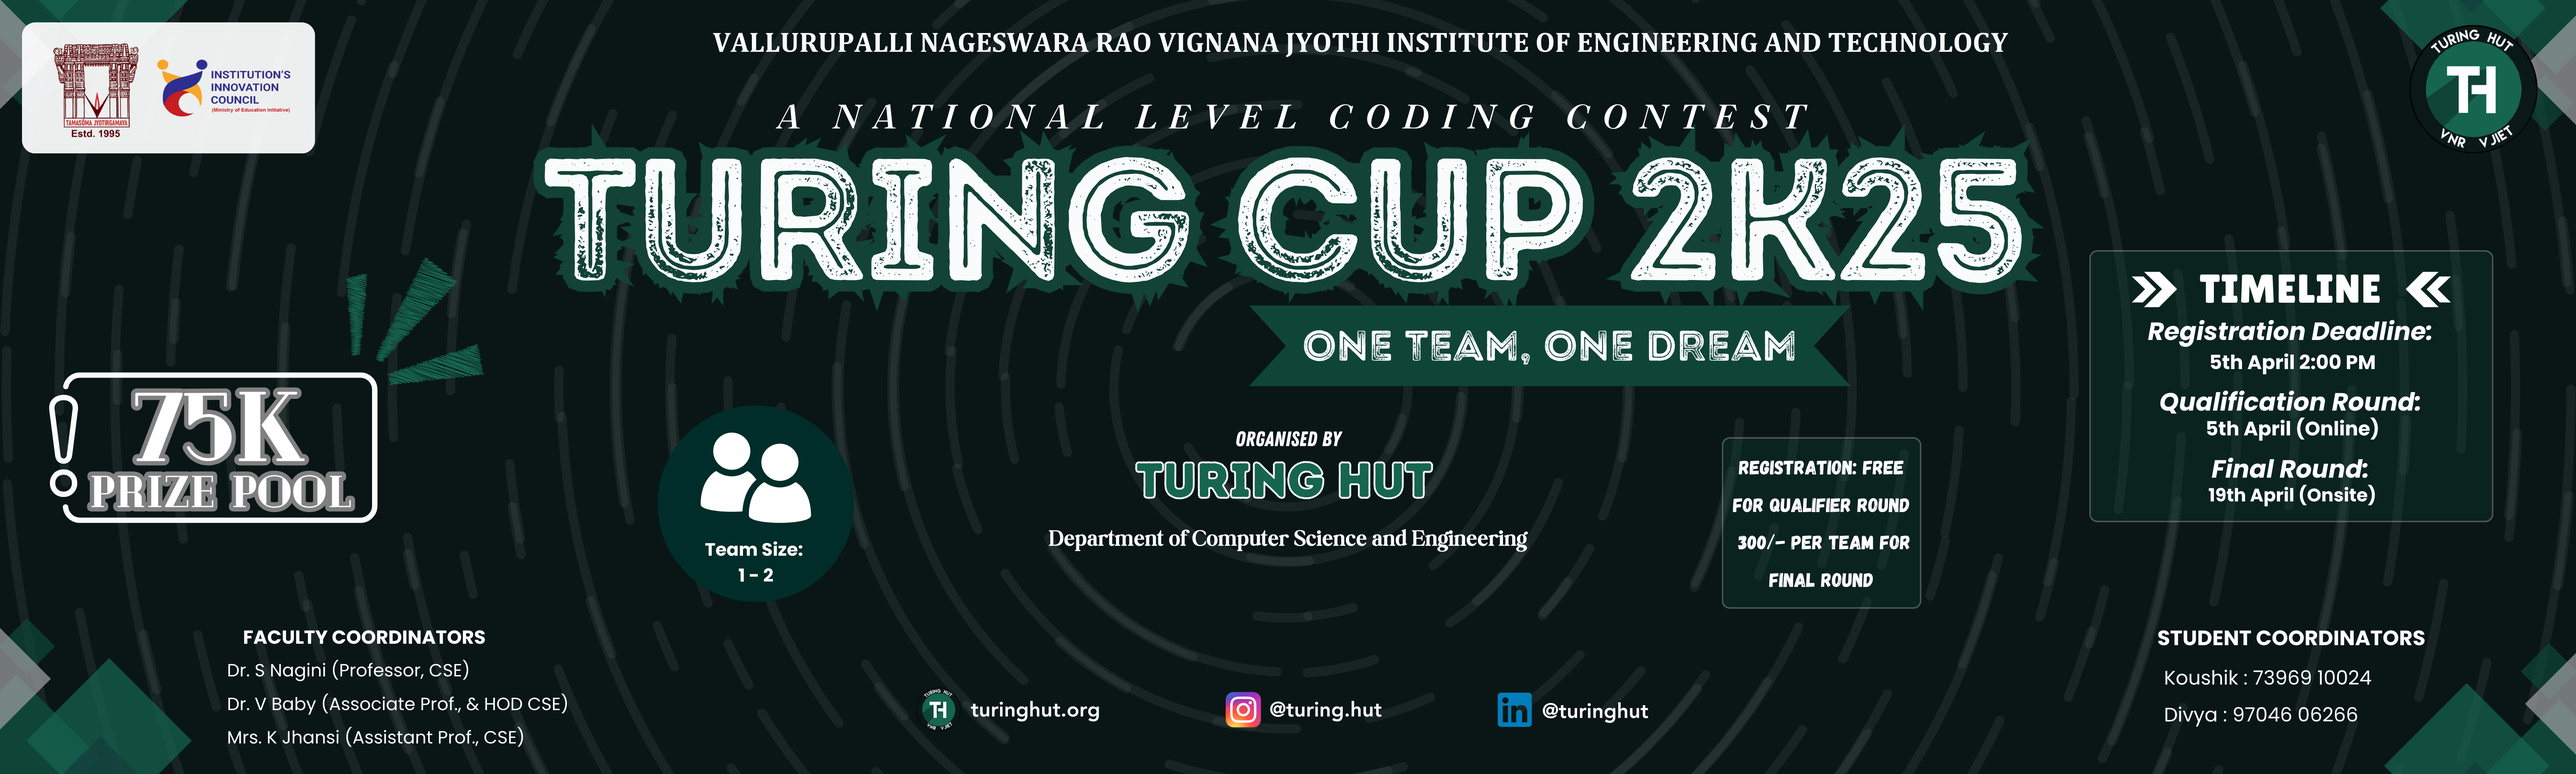
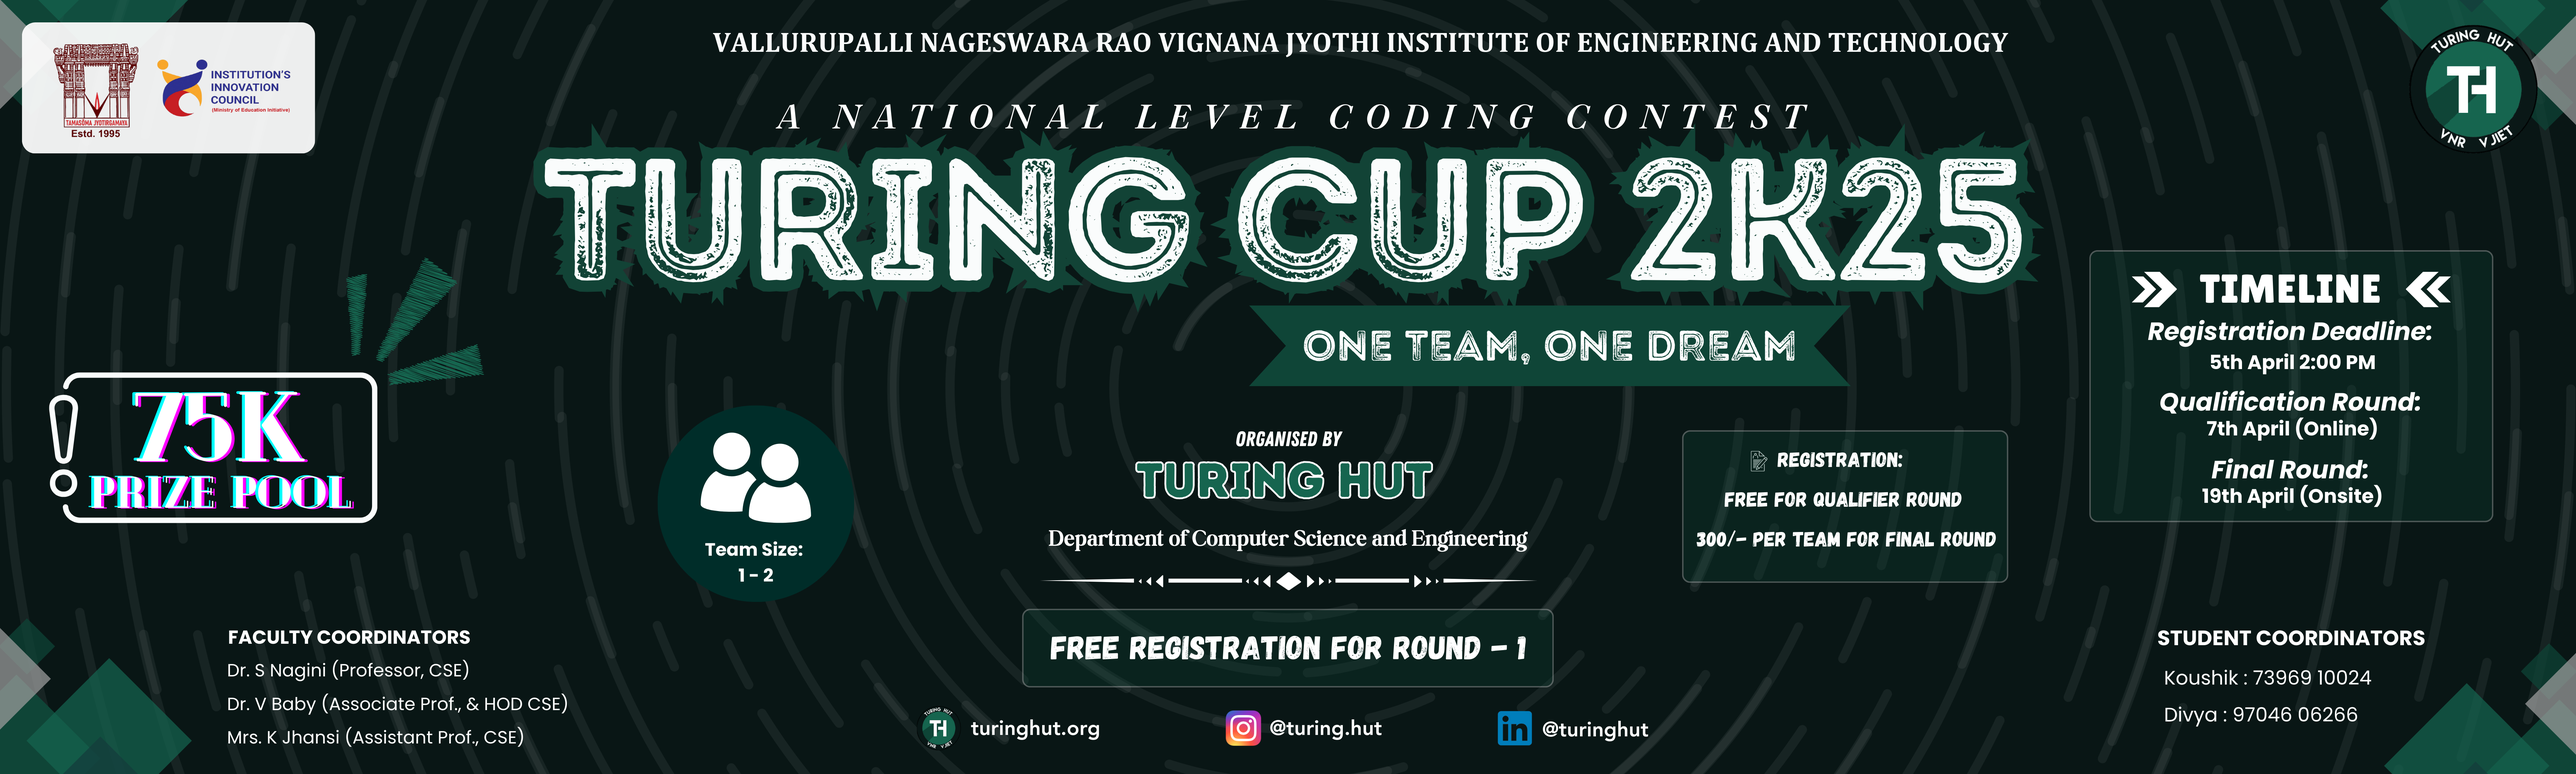
docs: dates changed

diff --git a/src/components/EventsTable.js b/src/components/EventsTable.js
@@ -221,8 +221,13 @@ export default function EventsPage() {
                       align="right"
                       sx={{
                         color: event.status.includes("Past")
-                          ? red[500]
-                          : green[600]
+                        ? red[500]
+                        : event.status.includes("Upcoming")
+                          ? 
+                          green[500]
+                          :
+                          "#1a8cff",
+                          fontWeight:500
                       }}
                     >
                       {event.status}
@@ -329,8 +334,10 @@ export default function EventsPage() {
                                 backgroundColor: event.status.includes("Past")
                                   ? red[500]
                                   : event.status.includes("Upcoming")
-                                    ? "#16654F"
-                                    : green[500]
+                                    ? 
+                                    green[500]
+                                    :
+                                    "#1a8cff"
                               }}
                             />
                             <Chip

diff --git a/src/components/TuringCup/Timelinee.js b/src/components/TuringCup/Timelinee.js
@@ -56,7 +56,7 @@ function Timelinee() {
             in any branch <br />
             Team size : 1-2 <br />
             Registration fee: FREE for Round-1 ; Rs 300/- per team for Round-2
-            (Lunch and goodies will be provided).
+            (Lunch and goodies will be provided)
             <br />
             Registration for online round will close on 5th April 2:00 PM <br />
           </h4>
@@ -70,7 +70,7 @@ function Timelinee() {
           }}
           contentArrowStyle={{ borderRight: "7px solid  #F2AA4CFF" }}
           iconStyle={{ background: "#F2AA4CFF", color: "#101820FF" }}
-          date="05-04-2025"
+          date="07-04-2025"
           dateClassName={"timeline"}
           icon={<LooksTwoOutlinedIcon />}
         >
@@ -83,8 +83,8 @@ function Timelinee() {
           >
             The qualifier round for the Turing Cup 2K25 coding contest. <br />
             <br />
-            Date : 05/04/2025 - Saturday <br />
-            Time : 07:00 PM - 09:00 PM (IST)
+            Date : 07/04/2025 - Monday <br />
+            Time : 08:00 PM - 10:00 PM (IST)
             <br />
             Platform : Hackerrank <br />
             Mode : Online <br />

diff --git a/src/components/NewslettersTable.js b/src/components/NewslettersTable.js
@@ -96,16 +96,16 @@ export default function NewslettersTable() {
   }
 
   return (
-    <Box sx={{ my: 4 }}>
+    <Box sx={{ m: 4 }}>
       <Box
-        display={{ sm: "flex" }}
+        display="flex"
+        justifyContent="space-between"
+        alignItems="center"
         sx={{ pb: 2 }}
-        justifyContent={"space-between"}
       >
         <Typography
           variant="h6"
           color="primary"
-          align="center"
           sx={{ fontWeight: "bold", fontSize: "1.7rem" }}
         >
           Directory of Newsletters

diff --git a/src/components/TuringCup/Timers.js b/src/components/TuringCup/Timers.js
@@ -33,7 +33,7 @@ function Timers() {
   let interval = useRef();
 
   const startTimer = () => {
-    const countdownDate = new Date("April 5, 2025 19:00:00").getTime();
+    const countdownDate = new Date("April 7, 2025 20:00:00").getTime();
 
     interval = setInterval(() => {
       const now = new Date().getTime();

diff --git a/src/assets/events/TuringCup-2025.md b/src/assets/events/TuringCup-2025.md
@@ -1,7 +1,7 @@
 ---
 title: Turing Cup 2K25
-date: 2025-04-05
-time: 07:00 PM to 09:00 PM
+date: 2025-04-07
+time: 08:00 PM to 10:00 PM
 type: Contest
 slug: turing-cup-2025
 image: ../images/events/turingcup2025.png
@@ -18,8 +18,8 @@ The Turing Cup will be held in two rounds :<br/>
 
 The qualifier round for Turing Cup 2K25 is a **2-hour coding contest** that will be held online on **Hackerrank**. Short-listed candidates will be notified for the further rounds.
 
-**Start:** 05 April 2025, 07:00 PM  
-**End:** 05 April 2025, 09:00 PM
+**Start:** 07 April 2025, 08:00 PM  
+**End:** 07 April 2025, 10:00 PM
 
 **Registration:** The first round is **FREE**, and further details will be communicated to the participants via email
 <br/>
@@ -66,8 +66,9 @@ The total prize pool for this contest is **₹75,000**:
 
 - Consolation 1 : ₹7000
 - Consolation 2 : ₹5000  
-  🎓 **Certificates:**
 
+
+🎓 **Certificates:**
 - _Participation Certificates_ for all **Final Round** participants.
 - _Merit Certificates_ for top-performing teams.
 
